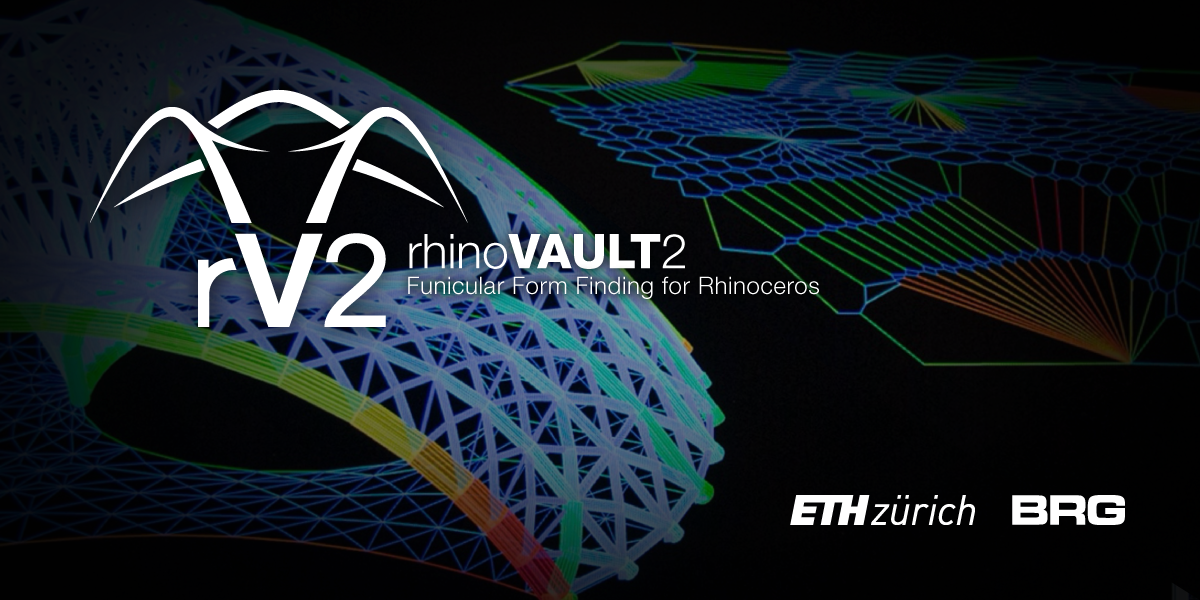
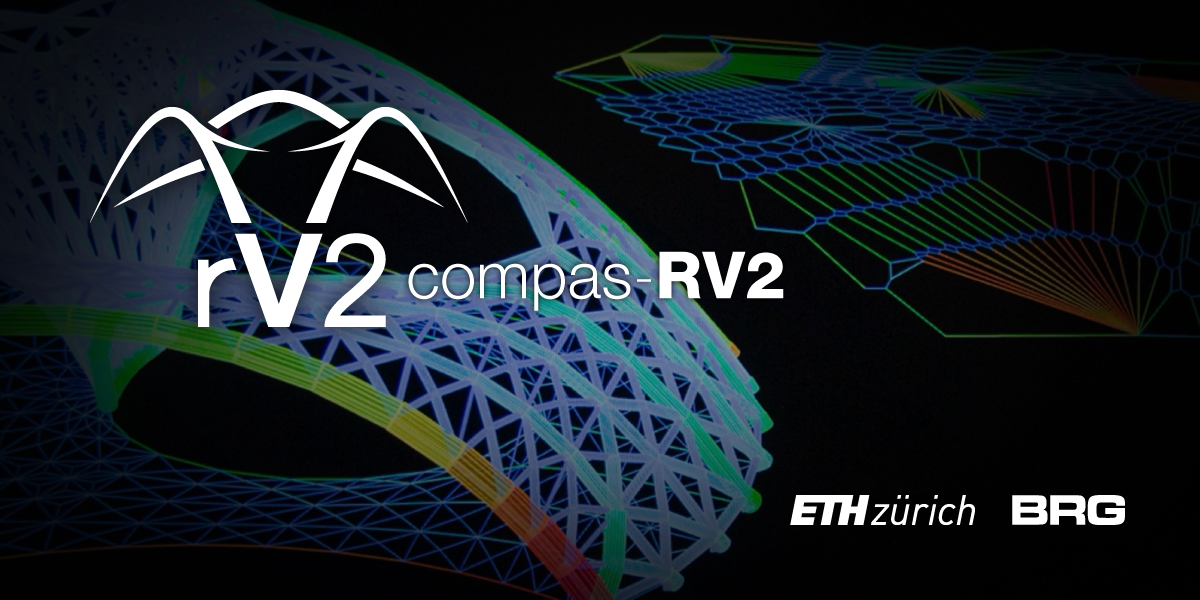
new splash image

Changed region(s): [[0.0308, 0.0, 0.9867, 1.0], [0.74, 0.57, 0.7708, 0.6]]

diff --git a/src/compas_rv2/rhino/forms/src/styles.css b/src/compas_rv2/rhino/forms/src/styles.css
@@ -78,6 +78,7 @@ a:visited{
 
 #version{
     position: fixed;
+    font-size: medium;
     left: 34%;
-    top: 52%;
+    top: 51.2%;
 }
